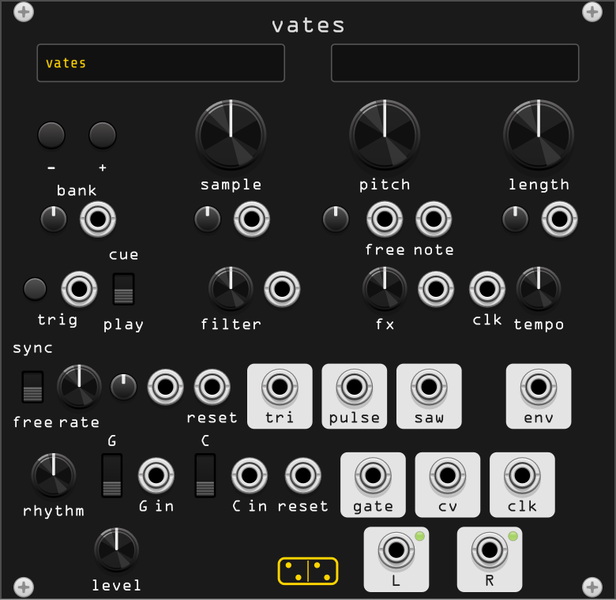
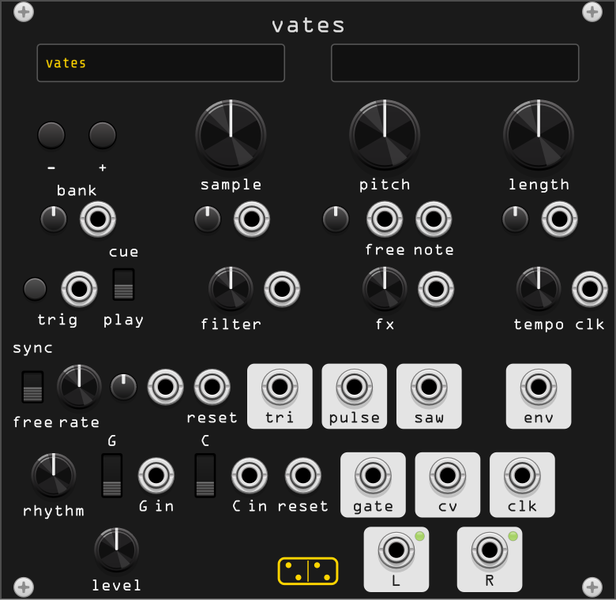
style(vates): tighten the mode labels, clk to the right of tempo
cue sits a millimetre off the switch and play lands on the trig label's
baseline, which needed the switch itself a millimetre higher. clk moved to
the other side of the tempo knob so the knob stays on the length column, and
its label shares the tempo label's baseline.

Changed region(s): [[0.1542, 0.39, 0.2468, 0.57], [0.7403, 0.45, 0.8328, 0.54], [0.9253, 0.45, 0.987, 0.57]]

diff --git a/src/vates.cpp b/src/vates.cpp
@@ -1258,8 +1258,8 @@ struct VatesWidget : ModuleWidget {
 // @elem LABEL_LENGTH label 0.0 label "length" 0.0 115.50 40.50
 // @elem LABEL_FREE label 0.0 label "free" 0.0 82.50 54.50
 // @elem LABEL_NOTE label 0.0 label "note" 0.0 93.00 54.50
-// @elem LABEL_CUE label 0.0 label "cue" 0.0 26.50 55.50
-// @elem LABEL_MODE label 0.0 label "play" 0.0 26.50 70.50
+// @elem LABEL_CUE label 0.0 label "cue" 0.0 26.50 54.90
+// @elem LABEL_MODE label 0.0 label "play" 0.0 26.50 69.50
 // @elem LABEL_TRIG label 0.0 label "trig" 0.0 12.25 69.50
 // @elem LABEL_FILTER label 0.0 label "filter" 0.0 49.50 70.50
 // @elem LABEL_FX label 0.0 label "fx" 0.0 82.50 70.50
@@ -1276,7 +1276,7 @@ struct VatesWidget : ModuleWidget {
 // @elem LABEL_PULSE label 0.0 label "pulse" 0.0 76.00 90.50
 // @elem LABEL_SAW label 0.0 label "saw" 0.0 92.00 90.50
 // @elem LABEL_TEMPO label 0.0 label "tempo" 0.0 115.50 70.50
-// @elem LABEL_CLK label 0.0 label "clk" 0.0 104.50 69.50
+// @elem LABEL_CLK label 0.0 label "clk" 0.0 126.50 70.50
 // @elem LABEL_GSW label 0.0 label "G" 0.0 24.00 95.50
 // @elem LABEL_CSW label 0.0 label "C" 0.0 44.00 95.50
 // @elem LABEL_RHYTHM label 0.0 label "rhythm" 0.0 11.50 110.50
@@ -1314,7 +1314,7 @@ struct VatesWidget : ModuleWidget {
         addInput(createInputCentered<PJ301MPort>(mm2px(Vec(93.00f, 47.00f)), module, Vates::NOTE_INPUT));
         addParam(createParamCentered<Trimpot>(mm2px(Vec(110.50f, 47.00f)), module, Vates::LENGTH_ATT_PARAM));
         addInput(createInputCentered<PJ301MPort>(mm2px(Vec(120.00f, 47.00f)), module, Vates::LENGTH_INPUT));
-        addParam(createParamCentered<CKSS>(mm2px(Vec(26.50f, 62.00f)), module, Vates::MODE_PARAM));
+        addParam(createParamCentered<CKSS>(mm2px(Vec(26.50f, 61.00f)), module, Vates::MODE_PARAM));
         addParam(createParamCentered<TL1105>(mm2px(Vec(7.50f, 62.00f)), module, Vates::TRIG_PARAM));
         addInput(createInputCentered<PJ301MPort>(mm2px(Vec(17.00f, 62.00f)), module, Vates::TRIG_INPUT));
         addParam(createParamCentered<RoundBlackKnob>(mm2px(Vec(49.50f, 62.00f)), module, Vates::FILTER_PARAM));
@@ -1331,7 +1331,7 @@ struct VatesWidget : ModuleWidget {
         addOutput(createOutputCentered<PJ301MPort>(mm2px(Vec(76.00f, 83.00f)), module, Vates::PULSE_OUTPUT));
         addOutput(createOutputCentered<PJ301MPort>(mm2px(Vec(92.00f, 83.00f)), module, Vates::SAW_OUTPUT));
         addParam(createParamCentered<RoundBlackKnob>(mm2px(Vec(115.50f, 62.00f)), module, Vates::TEMPO_PARAM));
-        addInput(createInputCentered<PJ301MPort>(mm2px(Vec(104.50f, 62.00f)), module, Vates::CLK_INPUT));
+        addInput(createInputCentered<PJ301MPort>(mm2px(Vec(126.50f, 62.00f)), module, Vates::CLK_INPUT));
         addParam(createParamCentered<RoundBlackKnob>(mm2px(Vec(11.50f, 102.00f)), module, Vates::RHYTHM_PARAM));
         addParam(createParamCentered<CKSSThree>(mm2px(Vec(24.00f, 102.00f)), module, Vates::GSW_PARAM));
         addInput(createInputCentered<PJ301MPort>(mm2px(Vec(33.50f, 102.00f)), module, Vates::G_INPUT));
